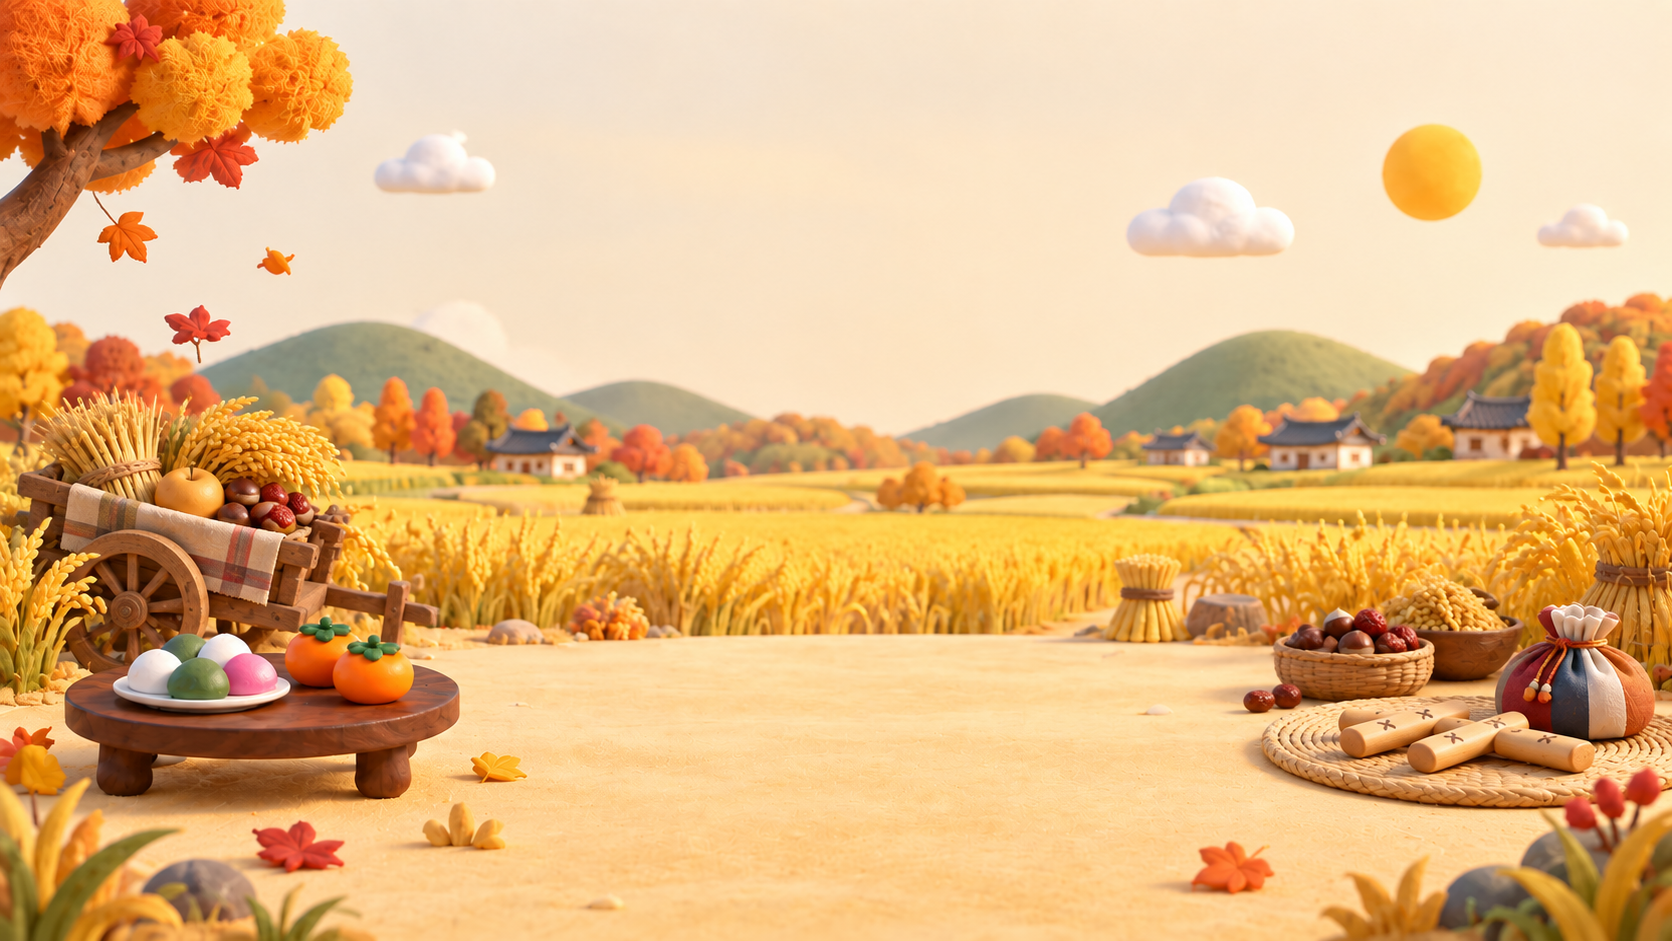
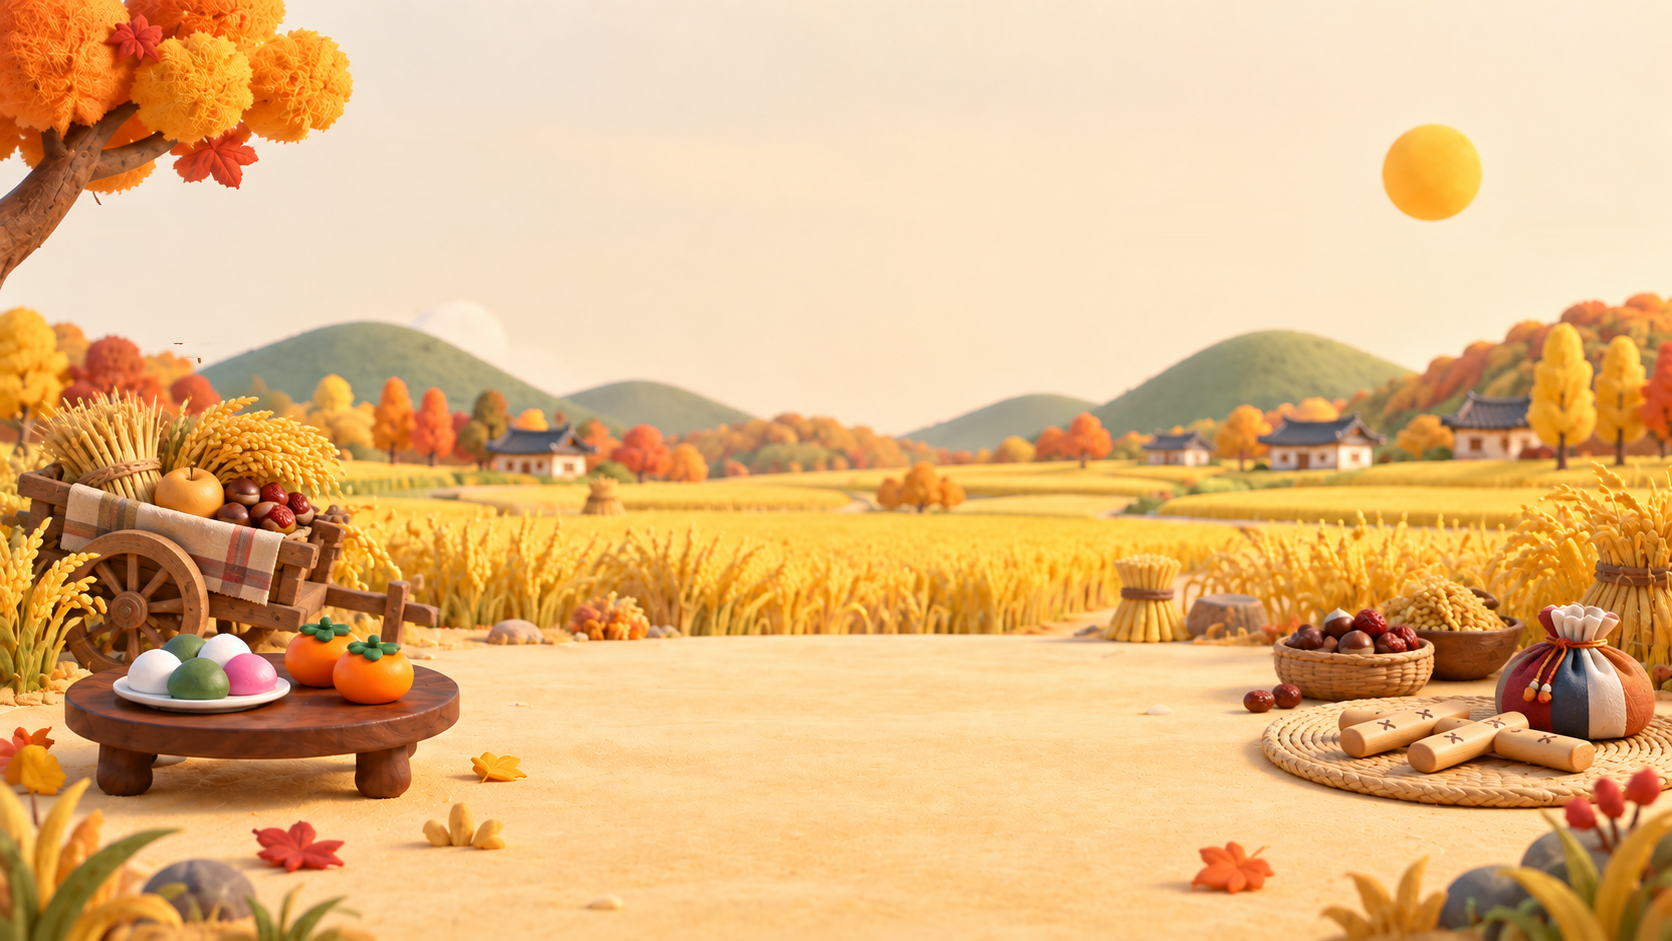
WORLD: the harvest scene breathes — drifting clouds, falling maple leaves, wind over the paddies
Nothing foreign is added: the painting's own three clouds and three loose
leaves were lifted out of the art (public/fx, sky filled behind them) and
now move as camera-glued sprites in the painting's pixel space — clouds
drift slowly rightward and wrap off-screen, leaves fall from the big tree
(and a couple from the right-side trees) with sway and tumble, fading
before the sand. The backdrop is drawn by a small shader that sways only
the paddies band (masked, feathered) with a faint travelling gust of
light. Effects belong to a scene and fade with the crossfade; other
scenes are untouched.

diff --git a/public/world.html b/public/world.html
@@ -77,7 +77,18 @@ const BACKDROP_D = 32;
 const DEFAULT_CAM = { pos: [0, 3.2, 12], look: [0, 1.1, -1.5] };
 const texLoader = new THREE.TextureLoader();
 const SCENES = {
-  harvest: { label: "황금 들녘", src: "/world3d-harvest.png", aspect: 1672 / 941, ground: { x: [-4.8, 4.8], xNear: [-2.6, 2.8], z: [-6, 4.5] }, lift: 0, cam: { pos: [0, 2.2, 12], look: [0, 2.5, -1.5] }, hemi: [0xfff0d0, 0x9a6a3a, 1.0], sun: [0xffe8b8, 1.5], rim: [0xffc070, 0.7] },
+  harvest: { label: "황금 들녘", src: "/world3d-harvest.png", aspect: 1672 / 941, px: [1672, 941], ground: { x: [-4.8, 4.8], xNear: [-2.6, 2.8], z: [-6, 4.5] }, lift: 0, cam: { pos: [0, 2.2, 12], look: [0, 2.5, -1.5] }, hemi: [0xfff0d0, 0x9a6a3a, 1.0], sun: [0xffe8b8, 1.5], rim: [0xffc070, 0.7],
+    // the painting's own life: its clouds and loose leaves were lifted out of
+    // the art (public/fx) and drift/fall as sprites; the paddies sway in the shader
+    fx: {
+      wind: { rect: [0.28, 0.32, 0.68, 0.50], amp: 0.0016 },
+      clouds: [
+        { tex: "/fx/harvest_cloud1.png", x: 435, y: 162, speed: 5.5 },
+        { tex: "/fx/harvest_cloud2.png", x: 1210, y: 217, speed: 4.2 },
+        { tex: "/fx/harvest_cloud3.png", x: 1587, y: 230, speed: 6.5 },
+      ],
+      leaves: { sprites: ["/fx/leaf1.png", "/fx/leaf2.png", "/fx/leaf3.png"], spawn: [[30, 40, 330, 190, 7], [1500, 300, 1660, 400, 2]], fadeY: [540, 610] },
+    } },
   field: { label: "가을 들판", src: "/world3d-field.png",  aspect: 1672 / 941, ground: { x: [-4.8, 4.5], xNear: [-2.2, 2.0], z: [-6, 4.5] }, lift: 0, cam: { pos: [0, 2.2, 12], look: [0, 2.5, -1.5] }, hemi: [0xfff4d6, 0x9a6a3a, 1.0], sun: [0xfff2cc, 1.6], rim: [0xffd08a, 0.7] },
   night: { label: "달빛 마을", src: "/world3d-night.png",  aspect: 1672 / 941, ground: { x: [-3, 7], z: [-5, 3.5] }, lift: 0.02, hemi: [0xdfe6ff, 0x5a4a30, 0.85], sun: [0xfff0c8, 1.1],  rim: [0x9fb4ff, 0.8] },
   moon:  { label: "보름달 마당", src: "/world3d-moon.png",  aspect: 1672 / 941, ground: { x: [-4.8, 6.5], xNear: [-1.2, 3.0], z: [-6, 4.5] }, lift: 0, cam: { pos: [0, 2.2, 12], look: [0, 2.5, -1.5] }, hemi: [0xffd9a8, 0x5a3a20, 0.9], sun: [0xffc890, 1.25], rim: [0x9fb4ff, 0.9] },
@@ -89,31 +100,69 @@ const ROTATE_MS = Math.max(0.5, Number(_q.get("rotate")) || 10) * 60000;
 let pickedScene = null; // set by the ◀ ▶ rehearsal control; cleared when going fullscreen
 const sceneNow = () => pickedScene || FORCED_SCENE || SCENE_ORDER[Math.floor(Date.now() / ROTATE_MS) % SCENE_ORDER.length];
 const loadBg = (src) => { const t = texLoader.load(src); t.colorSpace = THREE.SRGBColorSpace; t.anisotropy = renderer.capabilities.getMaxAnisotropy(); t.minFilter = THREE.LinearMipmapLinearFilter; return t; };
-const bgA = new THREE.Mesh(new THREE.PlaneGeometry(1, 1), new THREE.MeshBasicMaterial({ toneMapped: false }));
-const bgB = new THREE.Mesh(new THREE.PlaneGeometry(1, 1), new THREE.MeshBasicMaterial({ toneMapped: false, transparent: true, opacity: 0 }));
+// the backdrop shader: the painting as-is, except a masked band (the crops)
+// that sways gently and catches travelling gusts of light — wind over a field
+const BG_VERT = `varying vec2 vUv; void main() { vUv = uv; gl_Position = projectionMatrix * modelViewMatrix * vec4(position, 1.0); }`;
+const BG_FRAG = `
+uniform sampler2D map; uniform float opacity; uniform float time;
+uniform vec4 windRect; uniform float windAmp;
+varying vec2 vUv;
+void main() {
+  vec2 uv = vUv;
+  float m = smoothstep(windRect.x, windRect.x + 0.06, uv.x) * (1.0 - smoothstep(windRect.z - 0.06, windRect.z, uv.x))
+          * smoothstep(windRect.y, windRect.y + 0.04, uv.y) * (1.0 - smoothstep(windRect.w - 0.04, windRect.w, uv.y));
+  float w = sin(uv.x * 28.0 - time * 1.1 + uv.y * 9.0) * 0.6 + sin(uv.x * 61.0 - time * 1.9 + uv.y * 4.0) * 0.4;
+  uv += vec2(w, w * 0.35) * windAmp * m;
+  vec4 c = texture2D(map, uv);
+  float g = sin(uv.x * 9.0 - time * 0.7 + uv.y * 4.0);
+  c.rgb *= 1.0 + 0.035 * g * m;
+  gl_FragColor = vec4(c.rgb, c.a * opacity);
+  #include <colorspace_fragment>
+}`;
+const bgMaterial = (opacity) => new THREE.ShaderMaterial({
+  vertexShader: BG_VERT, fragmentShader: BG_FRAG, transparent: true, depthWrite: false,
+  uniforms: { map: { value: null }, opacity: { value: opacity }, time: { value: 0 }, windRect: { value: new THREE.Vector4() }, windAmp: { value: 0 } },
+});
+const bgA = new THREE.Mesh(new THREE.PlaneGeometry(1, 1), bgMaterial(1));
+const bgB = new THREE.Mesh(new THREE.PlaneGeometry(1, 1), bgMaterial(0));
 bgA.position.set(0, 0, -BACKDROP_D); bgB.position.set(0, 0, -BACKDROP_D + 0.01);
 camera.add(bgA, bgB);
+function setBgScene(mesh, name) {
+  const sc = SCENES[name], u = mesh.material.uniforms;
+  u.map.value = loadBg(sc.src);
+  const wind = sc.fx?.wind;
+  u.windRect.value.set(...(wind ? wind.rect : [0, 0, 0, 0]));
+  u.windAmp.value = wind ? wind.amp : 0;
+  mesh.userData.scene = name;
+}
+// how a scene's painting is fitted right now (cover + lift), for placing things on it
+function fitFor(name) {
+  const sc = SCENES[name] || SCENES[SCENE_ORDER[0]];
+  const vh = 2 * BACKDROP_D * Math.tan(THREE.MathUtils.degToRad(camera.fov / 2));
+  const vw = vh * camera.aspect;
+  const lift = vh * (sc.lift ?? 0.06);
+  const w = Math.max(vw, (vh + lift * 2) * sc.aspect);
+  return { w, h: w / sc.aspect, lift };
+}
 scene.add(camera);
 let currentScene = null, fading = null;
 function fitBackdrop() {
-  const vh = 2 * BACKDROP_D * Math.tan(THREE.MathUtils.degToRad(camera.fov / 2));
-  const vw = vh * camera.aspect;
-  for (const [m, name] of [[bgA, bgA.userData.scene], [bgB, bgB.userData.scene]]) {
-    const sc = SCENES[name] || SCENES[SCENE_ORDER[0]];
-    const lift = vh * (sc.lift ?? 0.06);      // the painting's floor meets the 3D ground
-    const w = Math.max(vw, (vh + lift * 2) * sc.aspect); // cover, including the lifted strip
-    m.scale.set(w, w / sc.aspect, 1);
-    m.position.y = lift;
+  for (const m of [bgA, bgB]) {
+    const f = fitFor(m.userData.scene); // cover, including the lifted strip (the painting's floor meets the 3D ground)
+    m.scale.set(f.w, f.h, 1);
+    m.position.y = f.lift;
   }
 }
 function applyScene(name, instant) {
   if (name === currentScene) return;
   const sc = SCENES[name];
   if (instant || !currentScene) {
-    bgA.material.map = loadBg(sc.src); bgA.material.needsUpdate = true; bgA.userData.scene = name;
+    setBgScene(bgA, name);
+    buildAmbient(name);
   } else {
-    bgB.material.map = loadBg(sc.src); bgB.material.needsUpdate = true; bgB.userData.scene = name;
+    setBgScene(bgB, name);
     fading = { t: 0 };
+    ambient.next = name; // this scene's life fades out, the new one's fades in
   }
   currentScene = name;
   document.getElementById("bgName").textContent = `${sc.label} ${SCENE_ORDER.indexOf(name) + 1}/${SCENE_ORDER.length}`;
@@ -133,6 +182,88 @@ const groundX = (z) => { // painted floors narrow toward the viewer: x range at 
   const t = THREE.MathUtils.clamp((z - GROUND.z[0]) / (GROUND.z[1] - GROUND.z[0]), 0, 1);
   return [THREE.MathUtils.lerp(GROUND.x[0], GROUND.xNear[0], t), THREE.MathUtils.lerp(GROUND.x[1], GROUND.xNear[1], t)];
 };
+// ---- the painting's ambient life ----------------------------------------
+// Clouds and leaves are picture planes glued to the camera just in front of
+// the backdrop, placed in the painting's own pixel coordinates so they stay
+// put on the art whatever the screen size. They belong to one scene at a time
+// and fade out/in with the scene crossfade.
+const ambientGroup = new THREE.Group();
+ambientGroup.position.z = -BACKDROP_D + 0.15;
+camera.add(ambientGroup);
+const ambient = { scene: null, next: null, opacity: 1, clouds: [], leaves: [], time: 0 };
+const spriteMat = (tex) => new THREE.MeshBasicMaterial({ map: getTex(tex), transparent: true, depthWrite: false, toneMapped: false, opacity: 1 });
+function buildAmbient(name) {
+  for (const o of [...ambient.clouds, ...ambient.leaves]) ambientGroup.remove(o.mesh);
+  ambient.clouds = []; ambient.leaves = []; ambient.scene = name; ambient.opacity = 0;
+  const fx = SCENES[name]?.fx;
+  if (!fx) return;
+  for (const c of fx.clouds || []) {
+    const mesh = new THREE.Mesh(new THREE.PlaneGeometry(1, 1), spriteMat(c.tex));
+    ambientGroup.add(mesh);
+    ambient.clouds.push({ mesh, x: c.x, y: c.y, speed: c.speed, tex: c.tex });
+  }
+  const lv = fx.leaves;
+  if (lv) {
+    let i = 0;
+    for (const [x0, y0, x1, y1, n] of lv.spawn) for (let k = 0; k < n; k++, i++) {
+      const tex = lv.sprites[i % lv.sprites.length];
+      const mesh = new THREE.Mesh(new THREE.PlaneGeometry(1, 1), spriteMat(tex));
+      mesh.position.z = 0.02 + i * 0.001;
+      ambientGroup.add(mesh);
+      const leaf = { mesh, tex, box: [x0, y0, x1, y1], phase: rnd(0, 6.28), x: 0, y: 0, vy: 0, wait: 0, spin: rnd(0.6, 1.1), size: 1 };
+      ambient.leaves.push(leaf);
+      resetLeaf(leaf, lv, true);
+    }
+  }
+}
+function resetLeaf(l, lv, initial) {
+  const [x0, y0, x1, y1] = l.box;
+  l.x = rnd(x0, x1); l.y = rnd(y0, y1); l.vy = rnd(13, 22); l.size = rnd(0.8, 1.15);
+  l.wait = initial ? 0 : rnd(0.5, 6);
+  if (initial) l.y = rnd(y0, lv.fadeY[1]); // a first frame already mid-fall, not a burst
+}
+function ambientTick(dt) {
+  ambient.time += dt;
+  // crossfade: fade this scene's life out, then build the next scene's and fade it in
+  if (ambient.next) {
+    ambient.opacity = Math.max(0, ambient.opacity - dt / 0.8);
+    if (ambient.opacity <= 0) { const n = ambient.next; ambient.next = null; buildAmbient(n); }
+  } else if (ambient.opacity < 1) ambient.opacity = Math.min(1, ambient.opacity + dt / 0.8);
+  const sc = SCENES[ambient.scene]; const fx = sc?.fx;
+  if (!fx) return;
+  const f = fitFor(ambient.scene), [PW, PH] = sc.px;
+  const place = (mesh, x, y, tex, alpha) => {
+    const img = mesh.material.map.image;
+    if (!img?.width) { mesh.visible = false; return; }
+    mesh.visible = true;
+    mesh.scale.set(img.width / PW * f.w, img.height / PH * f.h, 1);
+    mesh.position.x = (x / PW - 0.5) * f.w;
+    mesh.position.y = (0.5 - y / PH) * f.h + f.lift;
+    mesh.material.opacity = alpha * ambient.opacity;
+  };
+  for (const c of ambient.clouds) {
+    c.x += c.speed * dt;
+    const img = c.mesh.material.map.image, half = (img?.width || 200) / 2;
+    if (c.x > PW + half + 40) c.x = -half - 40; // wraps off-screen (the painting covers the screen)
+    place(c.mesh, c.x, c.y, c.tex, 1);
+  }
+  const lv = fx.leaves;
+  for (const l of ambient.leaves) {
+    if (l.wait > 0) { l.wait -= dt; l.mesh.visible = false; continue; }
+    const t = ambient.time + l.phase;
+    l.y += l.vy * dt;
+    l.x += Math.sin(t * 1.3) * 16 * dt + 4 * dt; // sway, drifting with the wind
+    const [fy0, fy1] = lv.fadeY;
+    const fadeIn = Math.min(1, (l.y - l.box[1]) / 40 + 0.15);
+    const alpha = Math.min(fadeIn, 1 - THREE.MathUtils.clamp((l.y - fy0) / (fy1 - fy0), 0, 1));
+    place(l.mesh, l.x, l.y, l.tex, alpha);
+    l.mesh.rotation.z = Math.sin(t * l.spin) * 0.55;
+    l.mesh.scale.multiplyScalar(l.size);
+    l.mesh.scale.x *= 0.72 + 0.28 * Math.cos(t * 1.7); // a tumble, seen edge-on now and then
+    if (l.y >= fy1) resetLeaf(l, lv, false);
+  }
+}
+
 // ground: invisible except for the shadows it catches (the painting shows through)
 let GROUND = { x: [-7.5, 7.5], z: [-5.5, 4.5] };
 const ground = new THREE.Mesh(new THREE.PlaneGeometry(40, 30), new THREE.ShadowMaterial({ opacity: 0.32 }));
@@ -462,10 +593,12 @@ function frame() {
   requestAnimationFrame(frame);
   const dt = Math.min(0.05, clock.getDelta());
   fxTick(dt);
+  bgA.material.uniforms.time.value = bgB.material.uniforms.time.value = clock.elapsedTime;
+  ambientTick(dt);
   if (fading) {
     fading.t = Math.min(1, fading.t + dt / 1.6);
-    bgB.material.opacity = fading.t;
-    if (fading.t >= 1) { bgA.material.map = bgB.material.map; bgA.userData.scene = bgB.userData.scene; bgA.material.needsUpdate = true; bgB.material.opacity = 0; fading = null; fitBackdrop(); }
+    bgB.material.uniforms.opacity.value = fading.t;
+    if (fading.t >= 1) { setBgScene(bgA, bgB.userData.scene); bgB.material.uniforms.opacity.value = 0; fading = null; fitBackdrop(); }
   }
   { const sc = SCENES[currentScene] || SCENES[SCENE_ORDER[0]]; const k = Math.min(1, dt * 1.5);
     hemi.color.lerp(new THREE.Color(sc.hemi[0]), k); hemi.groundColor.lerp(new THREE.Color(sc.hemi[1]), k); hemi.intensity += (sc.hemi[2] - hemi.intensity) * k;
